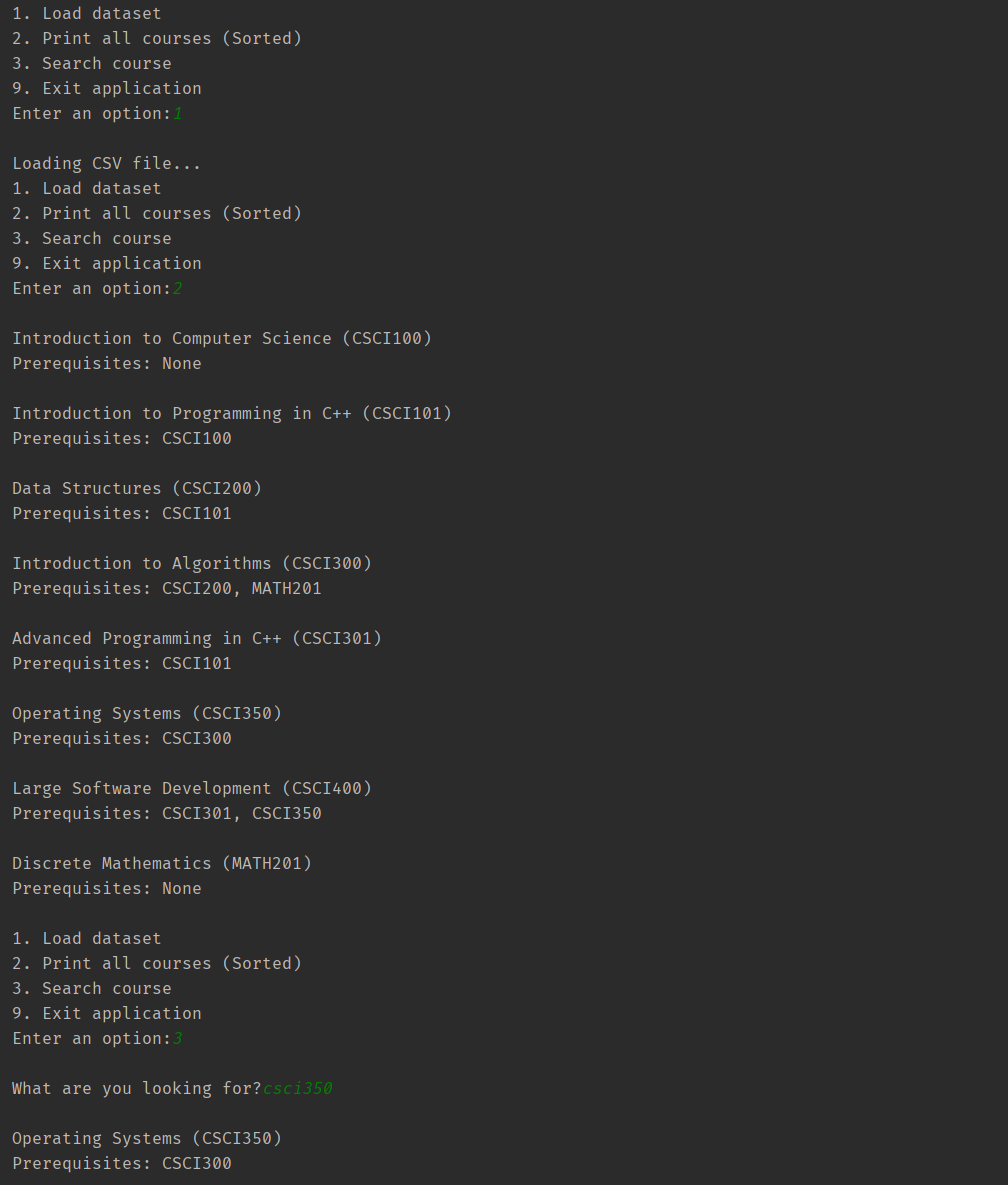
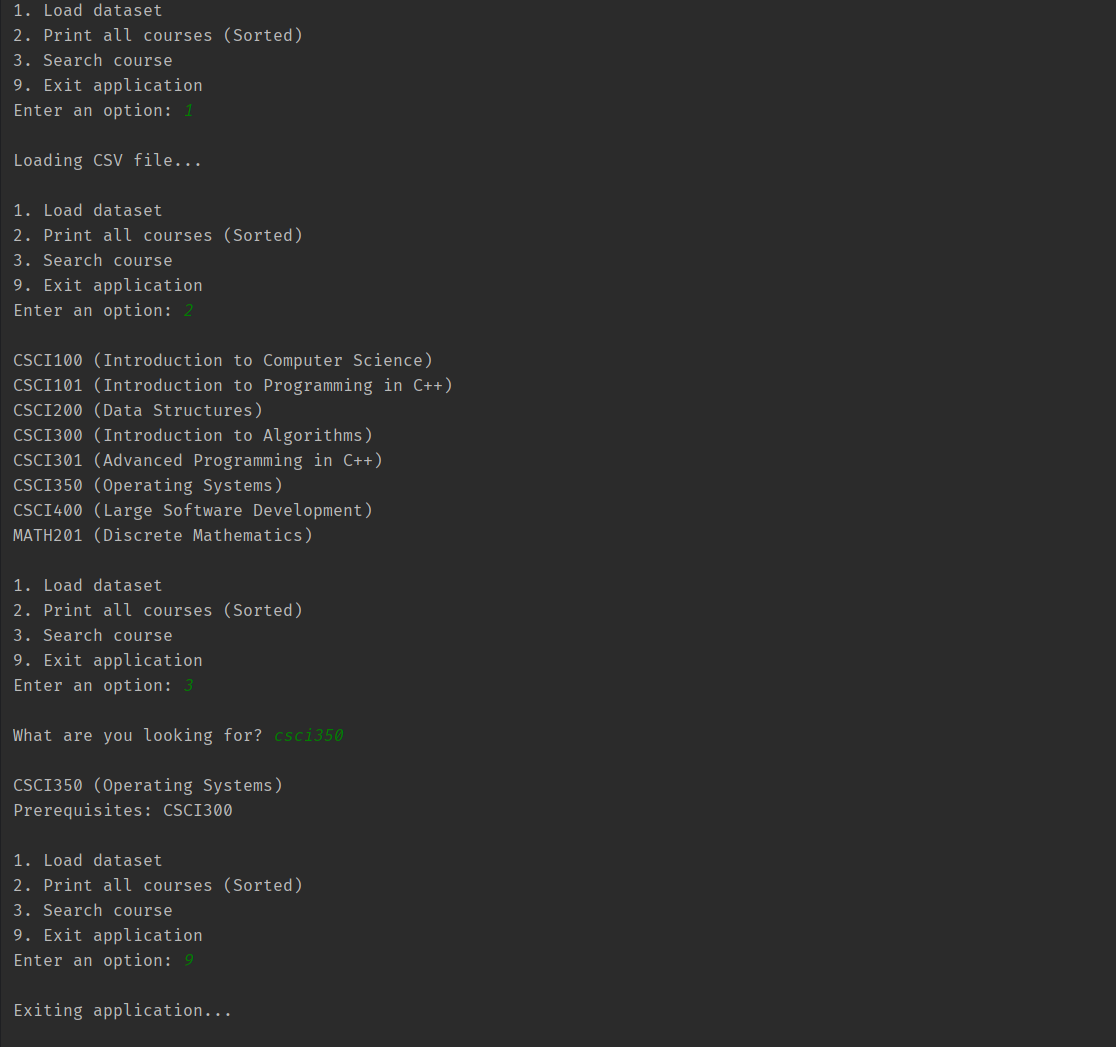
fix: update course printing spacing issues, and update logs to show id first

diff --git a/course-manager/src/CourseManager.cpp b/course-manager/src/CourseManager.cpp
@@ -41,7 +41,7 @@ namespace abcu
 
     void CourseManager::loadCourses(const std::string& filename)
     {
-        std::cout << "Loading CSV file..." << '\n';
+        std::cout << "Loading CSV file...\n\n";
 
         // Cache to add the existing courses so we can filter out any non-existant courses from pre-requisites
         std::unordered_set<std::string> existingCourses;
@@ -170,6 +170,7 @@ namespace abcu
 
         // Helper function that recursively prints the courses
         printInOrder(root);
+        std::cout << '\n';
     }
 
 
@@ -204,7 +205,7 @@ namespace abcu
             return;
 
         printInOrder(node->left);
-        std::cout << node->course;
+        std::cout << node->course.courseId << " (" << node->course.name << ")\n";
         printInOrder(node->right);
     }
 

diff --git a/course-manager/src/Main.cpp b/course-manager/src/Main.cpp
@@ -15,12 +15,12 @@
 int main(int argc, char* argv[])
 {
 
-    std::string filename = "ABCU_Advising_Program_Input2.csv";
+    std::string filename = "ABCU_Advising_Program_Input.csv";
+    // If a commandline argument is passed-in for filename
     if (argc > 1)
     {
+        // Then, that file is used
         filename = argv[1];
-        std::cout << "\nInput File: ";
-        std::cout << filename;
     }
 
     abcu::ABCUApplication app(filename);

diff --git a/course-manager/include/Course.h b/course-manager/include/Course.h
@@ -46,7 +46,7 @@ namespace abcu
          */
         friend std::ostream& operator<<(std::ostream& stream, const Course& course)
         {
-            stream << course.name << " (" << course.courseId << ")\n";
+            stream << course.courseId << " (" << course.name << ")\n";
             stream << "Prerequisites: ";
 
             // Print all the prerequisites in a comma separated form.
